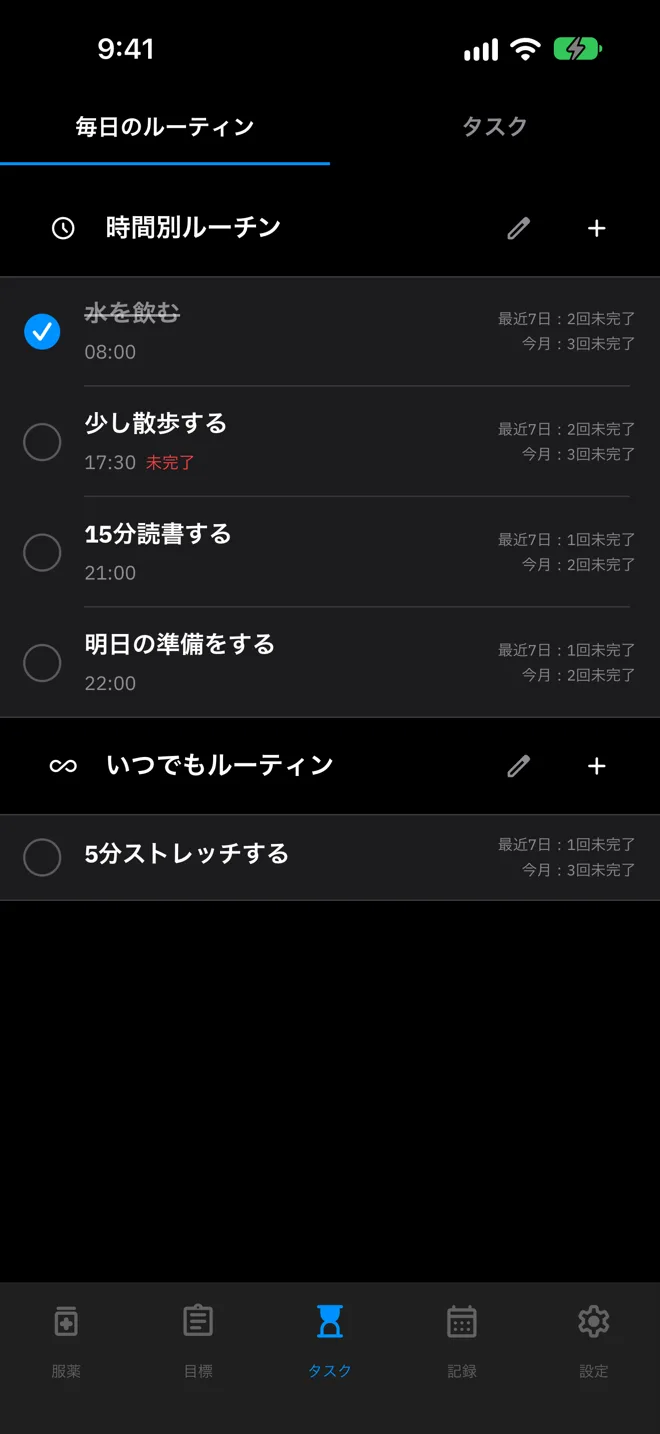
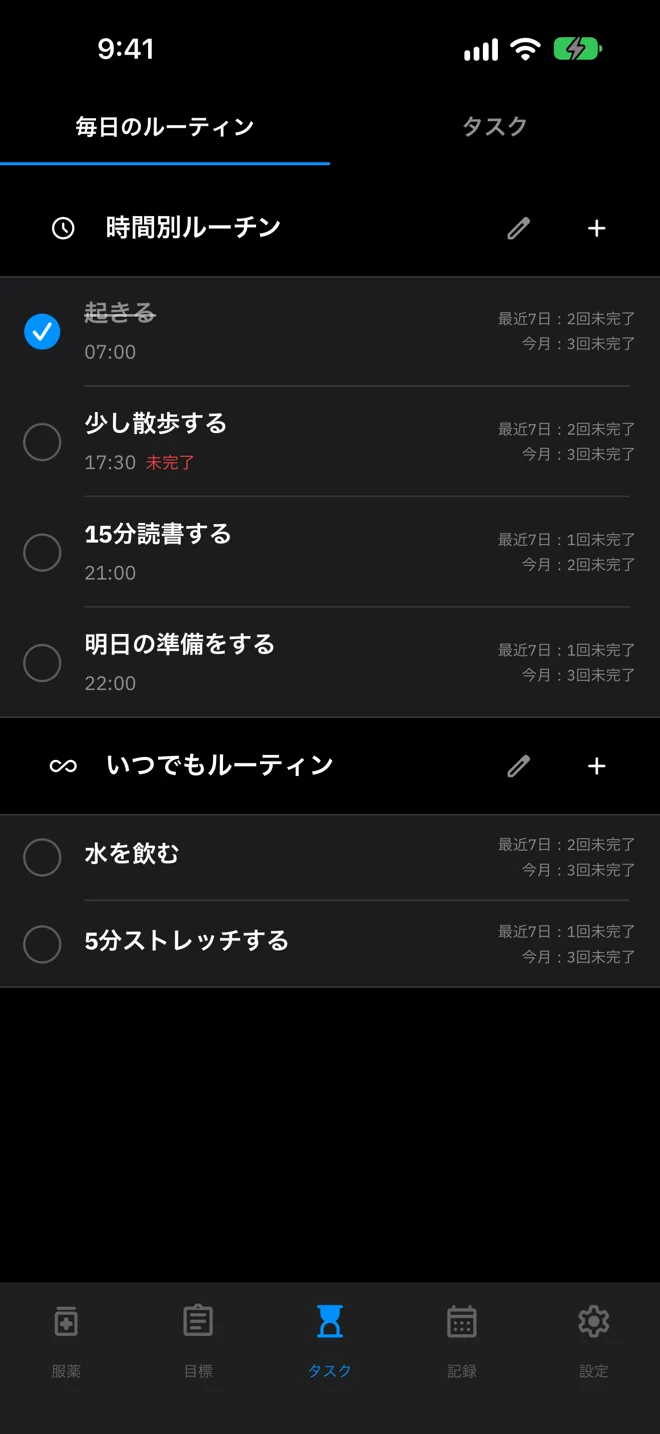
Refresh Peakly screenshots and tighten site copy
Retake the chart, goals, today's goals and routine screenshots with
realistic sample data, show the PDF report page next to the report
screen, drop the duplicate calendar row, remove the panel behind the
phone mockups, state that records stay on the device and the user's own
iCloud, and use support@ as the only contact address.

Changed region(s): [[0.0, 0.583, 1.0, 0.7057], [0.1212, 0.2148, 0.2727, 0.2455]]

diff --git a/src/i18n.ts b/src/i18n.ts
@@ -3,7 +3,7 @@ export type Lang = (typeof LANGS)[number];
 export type Page = 'home' | 'peakly' | 'privacy' | 'terms' | 'support';
 
 export const SITE = 'https://hyperfocuslab.app';
-export const EMAIL = 'hello@hyperfocuslab.app';
+export const EMAIL = 'support@hyperfocuslab.app';
 export const STORE = {
   appStore: 'https://apps.apple.com/app/id6757836001',
   googlePlay: 'https://play.google.com/store/apps/details?id=com.peakly.android',
@@ -52,6 +52,7 @@ export const ui = {
       peakly: {
         tagline: 'ADHD 복약 기록 앱',
         lead: '약을 먹은 시간만 기록하면, 지금 약효가 어느 단계인지 보여줍니다. 루틴과 할 일도 같은 앱에서 챙깁니다.',
+        privacy: '복약 기록과 건강 데이터는 외부 서버로 보내지 않습니다. 기기와 내 iCloud(Android는 Google Drive)에만 저장됩니다.',
         sections: [
           {
             tab: '복약',
@@ -59,22 +60,22 @@ export const ui = {
             rows: [
               { shot: 'chart', label: '예상 약효 곡선', title: '지금 약효가 어디쯤인지.', body: '콘서타와 메디키넷의 참고 곡선으로 시간대별 예상 약효를 그립니다. 오르는 중인지, 피크인지, 끝나가는지 바로 보이고, 피크 구간은 내 몸에 맞게 직접 옮길 수 있습니다. 곡선 아래에는 Apple Watch가 잰 심박수와 움직임이 같은 시간축으로 붙습니다.', alt: '콘서타 예상 약효 곡선과 그 아래 심박수, 움직임 그래프가 있는 Peakly 복약 화면' },
               { shot: 'lock', label: '다이나믹 아일랜드·잠금 화면', title: '남은 약효 시간이 늘 화면 위에.', body: 'iPhone은 다이나믹 아일랜드와 잠금 화면, Apple Watch 스마트 스택에, Android는 알림 영역에 남은 약효 시간이 계속 떠 있습니다. 약효가 오를 때, 최대 농도 구간에 들어설 때, 끝나갈 때는 알림으로 알려줍니다.', alt: '다이나믹 아일랜드와 잠금 화면에 콘서타 36mg 메인 피크와 남은 시간이 표시된 iPhone' },
-              { shot: 'report', label: 'PDF 리포트', title: '진료 때 보여줄 기록을 한 장에.', body: '기간을 골라 복약 기록, 수면, 심박, 걸음을 PDF로 정리합니다. 진료실에서 화면을 넘기지 않고 그대로 보여주면 됩니다.', alt: '기간과 포함할 내용을 고르는 PDF 리포트 생성 화면' },
+              { shot: 'report', pdf: true, label: 'PDF 리포트', title: '진료 때 보여줄 기록을 PDF로.', body: '기간을 고르면 "지난 N일, 이렇게 지냈어요" 리포트가 두 장짜리 PDF로 만들어집니다. 복용 기록, 이전 기간과 비교한 몸 상태 변화, 하루 중 약효 흐름, 기분 메모와 진료 때 물어볼 질문을 담습니다. 진료실에서 화면을 넘기지 않고 그대로 보여주면 됩니다.', alt: '기간을 고르는 PDF 리포트 생성 화면과, 복용 기록과 몸 상태 변화가 정리된 리포트 첫 장' },
             ],
           },
           {
             tab: '목표',
             intro: '큰 목표는 날짜로, 오늘 할 몫은 작게.',
             rows: [
-              { shot: 'goals', label: '전체 목표', title: '멀리 있는 목표를 D-Day로.', body: '시험, 프로젝트, 습관 같은 큰 목표에 날짜를 붙이면 D-Day와 진행률이 함께 보입니다. 목표마다 남은 기간이 한눈에 정리됩니다.', alt: 'D-Day와 목표별 진행률이 있는 전체 목표 화면' },
-              { shot: 'goals-today', label: '오늘의 목표', title: '큰 목표를 오늘 몫으로.', body: '목표를 오늘 할 작은 실천으로 쪼개고, 하나씩 체크하면 오늘 진행률이 올라갑니다.', alt: '오늘의 목표 진행률과 작은 실천 목록' },
+              { shot: 'goals', label: '전체 목표', title: '목표는 진행률로, 기다리는 날은 D-Day로.', body: '자격증, 다이어트, 포트폴리오처럼 큰 목표에 날짜를 붙이면 진행률과 남은 기간이 함께 보입니다. 여행, 시험일, 기념일처럼 날짜가 정해진 일은 D-Day로 띄워 둡니다.', alt: 'D-Day와 목표별 진행률이 있는 전체 목표 화면' },
+              { shot: 'goals-today', label: '오늘의 목표', title: '큰 목표를 오늘 몫으로.', body: '목표를 오늘 할 작은 일로 나누고, 체크한 만큼 오늘 진행 상황이 채워집니다.', alt: '오늘의 목표 진행률과 작은 실천 목록' },
             ],
           },
           {
             tab: '할 일',
             intro: '매일 하는 일과 마감이 있는 일을 나눠서.',
             rows: [
-              { shot: 'routines', label: '매일 루틴', title: '정한 시간에 할 일, 아무 때나 할 일.', body: '물 마시기처럼 시간이 정해진 일은 시간별 루틴으로, 스트레칭처럼 하루 중 언제든 하면 되는 일은 언제나 루틴으로 나눕니다. 최근 7일과 이번 달에 몇 번 놓쳤는지도 셉니다.', alt: '시간별 루틴과 언제나 루틴이 있는 매일 루틴 화면' },
+              { shot: 'routines', label: '매일 루틴', title: '정한 시간에 할 일, 아무 때나 할 일.', body: '기상이나 산책처럼 시간이 정해진 일은 시간별 루틴으로, 스트레칭처럼 하루 중 언제든 하면 되는 일은 언제나 루틴으로 나눕니다. 최근 7일과 이번 달에 몇 번 놓쳤는지도 셉니다.', alt: '시간별 루틴과 언제나 루틴이 있는 매일 루틴 화면' },
               { shot: 'todo', label: '해야 할 일', title: '마감이 가까운 일부터.', body: '마감이 있는 일은 남은 시간별로 나눠 보여줍니다. 오늘까지, 이번 주, 그 뒤로 정리되어 무엇부터 할지 고민할 필요가 없습니다.', alt: '남은 시간별로 나뉜 해야 할 일 목록' },
             ],
           },
@@ -82,16 +83,15 @@ export const ui = {
             tab: '기록',
             intro: '지나간 날과 그날의 기분을 남겨 둡니다.',
             rows: [
-              { shot: 'calendar', label: '캘린더', title: '지난 날을 한눈에.', body: '복약, 목표, 할 일이 날짜마다 색 점으로 표시됩니다. 날짜를 누르면 그날 먹은 약과 한 일이 모두 나오고, 위쪽 검색으로 지난 기록을 찾을 수 있습니다.', alt: '복약, 목표, 할 일이 점으로 표시된 캘린더' },
-              { shot: 'memo', label: '컨디션·오늘 메모', title: '그날의 기분을 한 번의 탭으로.', body: '다섯 가지 표정 중 하나를 고르고 짧은 메모를 남깁니다. 쌓인 컨디션과 메모는 진료 때 "그동안 어땠는지" 설명하는 근거가 됩니다.', alt: '선택한 컨디션 표정과 오늘 메모가 적힌 기록 화면' },
+              { shot: 'calendar', label: '캘린더', title: '지난 날을 한눈에.', body: '날짜마다 복약, 목표, 할 일 기록을 점으로 보여줍니다. 날짜를 누르면 그날 먹은 약과 끝낸 목표·할 일을 볼 수 있고, 지난 기록은 검색으로 찾을 수 있습니다. 그날의 기분과 메모를 남겨 두면 진료 때 그동안 어땠는지 설명하는 데 도움이 됩니다.', alt: '복약, 목표, 할 일이 점으로 표시된 캘린더' },
             ],
           },
           {
             tab: '설정',
             intro: '언어와 화면, 백업까지 내게 맞게.',
             rows: [
-              { shot: 'settings', label: '내 방식대로', title: '언어, 화면, 시간까지 내게 맞게.', body: '한국어, English, 日本語를 지원하고, 다크·라이트 모드와 색상 테마를 고를 수 있습니다. 목표 취침·기상 시간을 정해 두면 약효가 잠자리까지 이어질지 미리 알려줍니다.', alt: '언어, 디스플레이 모드, 색상 테마, 목표 취침·기상 시간이 있는 설정 화면' },
-              { shot: 'backup', label: '백업·복구', title: '폰을 바꿔도 기록은 그대로.', body: '내 iCloud에 자동으로 백업하고, 필요할 때 지금 바로 백업하거나 파일로 내보낼 수 있습니다. 복구할 때는 지금 기록과 다른 항목만 골라서 되살립니다.', alt: 'iCloud 백업, 지금 백업, 데이터 내보내기와 가져오기가 있는 백업·복구 화면' },
+              { shot: 'settings', label: '내 방식대로', title: '언어, 화면, 시간까지 내게 맞게.', body: '한국어, 영어, 일본어를 지원하고, 다크·라이트 모드와 색상 테마를 고를 수 있습니다. 목표 취침·기상 시간을 정해 두면 약효가 잠자리까지 이어질지 미리 알려줍니다.', alt: '언어, 디스플레이 모드, 색상 테마, 목표 취침·기상 시간이 있는 설정 화면' },
+              { shot: 'backup', label: '백업·복구', title: '폰을 바꿔도 기록은 그대로.', body: '복약 기록과 건강 데이터는 외부 서버로 보내지 않고, 기기와 내 iCloud에만 저장됩니다. 자동으로 백업하고, 필요할 때 지금 바로 백업하거나 파일로 내보낼 수 있습니다. 복구할 때는 지금 기록과 다른 항목만 골라서 되살립니다.', alt: 'iCloud 백업, 지금 백업, 데이터 내보내기와 가져오기가 있는 백업·복구 화면' },
             ],
           },
           {
@@ -106,7 +106,7 @@ export const ui = {
           label: '데이터',
           title: '기록은 내 기기에.',
           items: [
-            { title: '서버로 보내지 않습니다', body: '복약 기록과 건강 데이터는 기기 안에만 저장합니다. Hyperfocus Lab 서버로 보내지 않습니다.' },
+            { title: '외부 서버로 보내지 않습니다', body: '복약 기록과 건강 데이터는 기기와 내 iCloud에 저장하고, 외부 서버로 보내지 않습니다.' },
             { title: '내 iCloud에 백업', body: '본인 iCloud에 자동으로 백업하고, 같은 Apple 계정의 iPhone·iPad끼리 동기화합니다. Android는 Google Drive에 백업합니다. (Pro)' },
             { title: '약 이름 숨기기', body: '위젯, 잠금 화면, 다이나믹 아일랜드에 약 이름과 이미지가 보이지 않게 할 수 있습니다. (Pro)' },
           ],
@@ -152,6 +152,7 @@ export const ui = {
       peakly: {
         tagline: 'ADHD medication tracker',
         lead: 'Log when you take your medication, and Peakly shows which phase it is in right now. Your routines and to-dos live in the same app.',
+        privacy: 'Your dose records and health data never go to an outside server. They are stored only on your device and in your own iCloud (Google Drive on Android).',
         sections: [
           {
             tab: 'Medication',
@@ -159,22 +160,22 @@ export const ui = {
             rows: [
               { shot: 'chart', label: 'Estimated effect curve', title: 'Know where your medication is.', body: 'Reference curves for Concerta and Medikinet show your estimated effect through the day. See at a glance whether it is rising, peaking, or wearing off, and move the peak window to match how you feel. Heart rate and movement from Apple Watch sit right below on the same timeline.', alt: 'Peakly medication screen with the expected Concerta curve above heart rate and movement graphs' },
               { shot: 'lock', label: 'Dynamic Island and Lock Screen', title: 'Time left, always on screen.', body: 'The time your medication has left stays in the Dynamic Island, on the Lock Screen, and in the Apple Watch Smart Stack, and in the notification shade on Android. Notifications tell you when it starts rising, when the peak window begins, and when it is wearing off.', alt: 'iPhone Dynamic Island and Lock Screen showing Concerta 36mg at its main peak with the time left' },
-              { shot: 'report', label: 'PDF report', title: 'Your records on one page for your doctor.', body: 'Pick a period and turn your doses, sleep, heart rate, and steps into a PDF. Show it at your appointment instead of scrolling through your phone.', alt: 'PDF report screen for choosing a period and what to include' },
+              { shot: 'report', pdf: true, label: 'PDF report', title: 'Your records as a PDF for your doctor.', body: 'Pick a period and Peakly makes a two-page PDF, "How the last N days went." It covers your dose records, body changes compared with the previous period, how the effect ran through the day, your mood notes, and questions to ask at the visit. Show it as is instead of scrolling through your phone.', alt: 'PDF report screen for choosing a period, next to the first page of the report with dose records and body changes' },
             ],
           },
           {
             tab: 'Goals',
             intro: 'Big goals get a date. Today\'s share stays small.',
             rows: [
-              { shot: 'goals', label: 'All goals', title: 'Turn far-off goals into D-Days.', body: 'Give an exam, a project, or a habit a date, and see its D-Day and progress together. Every goal shows how much time is left.', alt: 'All Goals screen with D-Days and progress per goal' },
-              { shot: 'goals-today', label: 'Today\'s goals', title: 'Big goals, broken into today.', body: 'Split a goal into small actions for today. Each one you check moves today\'s progress forward.', alt: 'Today\'s Goals with progress and small actions' },
+              { shot: 'goals', label: 'All goals', title: 'Goals as progress, waiting days as D-Days.', body: 'Give a big goal like a certification, a diet, or a portfolio a date, and you see its progress and the time left together. Things with a fixed date, like a trip, an exam day, or an anniversary, sit on screen as D-Days.', alt: 'All Goals screen with D-Days and progress per goal' },
+              { shot: 'goals-today', label: 'Today\'s goals', title: 'Big goals, broken into today.', body: 'Split a goal into small things to do today. Each one you check fills in today\'s progress.', alt: 'Today\'s Goals with progress and small actions' },
             ],
           },
           {
             tab: 'Tasks',
             intro: 'Daily habits and deadlines, kept apart.',
             rows: [
-              { shot: 'routines', label: 'Daily routines', title: 'Things for a set time, and anytime.', body: 'Timed routines cover things like drinking water at 8:00; anytime routines cover things like stretching whenever you can. Peakly also counts how often you missed each one in the last 7 days and this month.', alt: 'Daily Routine screen with timed and anytime routines' },
+              { shot: 'routines', label: 'Daily routines', title: 'Things for a set time, and anytime.', body: 'Things with a set time, like waking up or a walk, go into timed routines. Things you can do whenever, like stretching, go into anytime routines. Peakly also counts how many times you missed each one in the last 7 days and this month.', alt: 'Daily Routine screen with timed and anytime routines' },
               { shot: 'todo', label: 'To-dos', title: 'Closest deadline first.', body: 'Tasks with deadlines are grouped by how much time is left: today, this week, and later. No need to decide what to start with.', alt: 'Task list grouped by time left' },
             ],
           },
@@ -182,16 +183,15 @@ export const ui = {
             tab: 'History',
             intro: 'Past days, and how each one felt.',
             rows: [
-              { shot: 'calendar', label: 'Calendar', title: 'Your past days at a glance.', body: 'Doses, goals, and tasks show up as colored dots on each date. Tap a day to see everything from that day, or search past records from the top.', alt: 'Calendar with dots for doses, goals, and tasks' },
-              { shot: 'memo', label: 'Mood and daily note', title: 'How today felt, in one tap.', body: 'Pick one of five faces and leave a short note. Over time, your moods and notes help you explain how things have been at your appointment.', alt: 'History screen with a selected mood face and a daily note' },
+              { shot: 'calendar', label: 'Calendar', title: 'Your past days at a glance.', body: 'Each date shows dots for your doses, goals, and tasks. Tap a day to see the medication you took and the goals and tasks you finished, or search to find older records. Your mood and notes for the day help you explain how things have been at your appointment.', alt: 'Calendar with dots for doses, goals, and tasks' },
             ],
           },
           {
             tab: 'Settings',
             intro: 'Language, look, and backups, your way.',
             rows: [
-              { shot: 'settings', label: 'Make it yours', title: 'Language, look, and your own schedule.', body: 'Peakly speaks 한국어, English, and 日本語, with dark and light modes and color themes. Set your target bedtime and wake time, and Peakly warns you if the effect may last into the night.', alt: 'Settings screen with language, display mode, color theme, and target bedtime and wake time' },
-              { shot: 'backup', label: 'Backup and restore', title: 'New phone, same records.', body: 'Back up automatically to your own iCloud, back up now, or export a file. When you restore, you choose only the records that differ from what you have.', alt: 'Backup screen with iCloud backup, back up now, and data export and import' },
+              { shot: 'settings', label: 'Make it yours', title: 'Language, look, and your own schedule.', body: 'Peakly is available in Korean, English, and Japanese, with dark and light modes and color themes. Set your target bedtime and wake time, and Peakly warns you if the effect may last into the night.', alt: 'Settings screen with language, display mode, color theme, and target bedtime and wake time' },
+              { shot: 'backup', label: 'Backup and restore', title: 'New phone, same records.', body: 'Your dose records and health data never go to an outside server. They are stored only on your device and in your own iCloud. Backups run automatically, and you can also back up now or export a file. When you restore, you choose only the records that differ from what you have.', alt: 'Backup screen with iCloud backup, back up now, and data export and import' },
             ],
           },
           {
@@ -206,7 +206,7 @@ export const ui = {
           label: 'Data',
           title: 'Your records stay on your device.',
           items: [
-            { title: 'Nothing sent to our servers', body: 'Medication records and health data are stored only on your device. They are never sent to Hyperfocus Lab servers.' },
+            { title: 'Nothing sent to outside servers', body: 'Medication records and health data are stored on your device and in your own iCloud, and are never sent to an outside server.' },
             { title: 'Backed up to your iCloud', body: 'Back up automatically to your own iCloud and sync between iPhone and iPad on the same Apple Account. Android backs up to Google Drive. (Pro)' },
             { title: 'Hide medication names', body: 'Keep medication names and images out of widgets, the Lock Screen, and the Dynamic Island. (Pro)' },
           ],
@@ -252,6 +252,7 @@ export const ui = {
       peakly: {
         tagline: 'ADHDの服薬記録アプリ',
         lead: '薬を飲んだ時刻を記録するだけで、いま薬の作用がどの段階かを表示します。ルーティンやタスクも同じアプリで管理できます。',
+        privacy: '服薬記録と健康データは外部のサーバーには送りません。端末と自分のiCloud（AndroidはGoogleドライブ）にだけ保存されます。',
         sections: [
           {
             tab: '服薬',
@@ -259,22 +260,22 @@ export const ui = {
             rows: [
               { shot: 'chart', label: '予測グラフ', title: 'いま、作用はどのあたりか。', body: 'コンサータとメディキネットの参考曲線で、時間ごとの作用の予測を描きます。上がっている途中か、ピークか、切れかけているかがひと目でわかり、ピークの時間帯は自分の感覚に合わせて動かせます。曲線の下には、Apple Watchが計測した心拍数と動きが同じ時間軸で並びます。', alt: 'コンサータの予想曲線と心拍数・動きのグラフが並ぶPeaklyの服薬画面' },
               { shot: 'lock', label: 'Dynamic Island・ロック画面', title: '作用の残り時間を、いつも画面に。', body: 'iPhoneではDynamic Island、ロック画面、Apple Watchのスマートスタックに、Androidでは通知エリアに、作用の残り時間が表示され続けます。作用が上がり始めたとき、ピークの時間帯に入ったとき、切れかけたときは通知でお知らせします。', alt: 'Dynamic Islandとロック画面に、コンサータ36mgのメインピークと残り時間を表示したiPhone' },
-              { shot: 'report', label: 'PDFレポート', title: '診察で見せる記録を一枚に。', body: '期間を選んで、服薬記録・睡眠・心拍・歩数をPDFにまとめます。診察室でスマホをスクロールせず、そのまま見せられます。', alt: '期間と含める内容を選ぶPDFレポート作成画面' },
+              { shot: 'report', pdf: true, label: 'PDFレポート', title: '診察で見せる記録を、PDFで。', body: '期間を選ぶと、「直近N日間、こんなふうに過ごしました」というレポートが2ページのPDFになります。服薬記録、前の期間と比べた体の変化、一日の作用の流れ、気分のメモ、診察で聞きたいことを載せます。診察室でスマホをスクロールせず、そのまま見せられます。', alt: '期間を選ぶPDFレポート作成画面と、服薬記録と体の変化がまとまったレポートの1ページ目' },
             ],
           },
           {
             tab: '目標',
             intro: '大きな目標は日付で、今日の分は小さく。',
             rows: [
-              { shot: 'goals', label: '全体の目標', title: '遠い目標を、D-Dayに。', body: '試験やプロジェクト、習慣などの大きな目標に日付をつけると、D-Dayと進捗率が一緒に表示されます。目標ごとの残り期間がひと目でわかります。', alt: 'D-Dayと目標ごとの進捗率が並ぶ全体の目標画面' },
-              { shot: 'goals-today', label: '今日の目標', title: '大きな目標を、今日の一歩に。', body: '目標を今日の小さな実践に分け、ひとつずつチェックすると今日の進捗が上がります。', alt: '今日の目標の進捗率と小さな実践の一覧' },
+              { shot: 'goals', label: '全体の目標', title: '目標は進捗で、待つ日はD-Dayで。', body: '資格、ダイエット、ポートフォリオのような大きな目標に日付をつけると、進捗率と残り期間が一緒に見えます。旅行、試験日、記念日のように日付が決まっていることは、D-Dayとして表示しておけます。', alt: 'D-Dayと目標ごとの進捗率が並ぶ全体の目標画面' },
+              { shot: 'goals-today', label: '今日の目標', title: '大きな目標を、今日の一歩に。', body: '目標を今日やる小さなことに分けると、チェックした分だけ今日の進み具合が埋まっていきます。', alt: '今日の目標の進捗率と小さな実践の一覧' },
             ],
           },
           {
             tab: 'タスク',
             intro: '毎日のことと締め切りのあることを分けて。',
             rows: [
-              { shot: 'routines', label: '毎日のルーティン', title: '決まった時間のこと、いつでもいいこと。', body: '水を飲むなど時間が決まったことは時間別ルーティンに、ストレッチなど一日のうちいつでもいいことはいつでもルーティンに分けます。直近7日と今月に何回できなかったかも数えます。', alt: '時間別ルーティンといつでもルーティンが並ぶ毎日のルーティン画面' },
+              { shot: 'routines', label: '毎日のルーティン', title: '決まった時間のこと、いつでもいいこと。', body: '起床や散歩のように時間が決まっていることは時間別ルーティンに、ストレッチのように一日のうちいつでもいいことはいつでもルーティンに分けます。直近7日と今月に何回できなかったかも数えます。', alt: '時間別ルーティンといつでもルーティンが並ぶ毎日のルーティン画面' },
               { shot: 'todo', label: 'やること', title: '締め切りが近いものから。', body: '締め切りのあることは、今日まで・今週・それ以降と残り時間ごとに分けて表示します。何から始めるか迷いません。', alt: '残り時間ごとに分かれたタスク一覧' },
             ],
           },
@@ -282,16 +283,15 @@ export const ui = {
             tab: '記録',
             intro: '過ぎた日と、その日の気分を残します。',
             rows: [
-              { shot: 'calendar', label: 'カレンダー', title: '過ぎた日々を、ひと目で。', body: '服薬・目標・タスクが日付ごとに色の点で表示されます。日付をタップするとその日の記録がすべて表示され、上の検索で過去の記録を探せます。', alt: '服薬・目標・タスクが点で示されたカレンダー' },
-              { shot: 'memo', label: '体調・今日のメモ', title: 'その日の気分を、ワンタップで。', body: '5つの表情からひとつを選び、短いメモを残します。たまった体調とメモは、診察で「この間どうだったか」を伝える手がかりになります。', alt: '選んだ体調の表情と今日のメモがある記録画面' },
+              { shot: 'calendar', label: 'カレンダー', title: '過ぎた日々を、ひと目で。', body: '日付ごとに服薬・目標・タスクの記録を点で表示します。日付をタップすると、その日に飲んだ薬と終えた目標・タスクを確認でき、過去の記録は検索で探せます。その日の気分とメモを残しておけば、診察で最近の様子を伝えやすくなります。', alt: '服薬・目標・タスクが点で示されたカレンダー' },
             ],
           },
           {
             tab: '設定',
             intro: '言語も画面もバックアップも、自分に合わせて。',
             rows: [
-              { shot: 'settings', label: '自分に合わせて', title: '言語も画面も時間も、自分仕様に。', body: '한국어・English・日本語に対応し、ダーク・ライトモードと色テーマを選べます。目標の就寝・起床時間を決めておくと、作用が寝る時間まで続きそうなときに事前にお知らせします。', alt: '言語、ディスプレイモード、色テーマ、目標の就寝・起床時間がある設定画面' },
-              { shot: 'backup', label: 'バックアップ・復元', title: '機種を変えても、記録はそのまま。', body: '自分のiCloudに自動でバックアップし、必要なときは今すぐバックアップしたりファイルに書き出したりできます。復元するときは、今の記録と違う項目だけを選んで戻せます。', alt: 'iCloudバックアップ、今すぐバックアップ、データの書き出しと読み込みがあるバックアップ画面' },
+              { shot: 'settings', label: '自分に合わせて', title: '言語も画面も時間も、自分仕様に。', body: '韓国語、英語、日本語で使えます。ダーク・ライトモードと色テーマも選べます。目標の就寝・起床時間を決めておくと、作用が寝る時間まで続きそうなときに事前にお知らせします。', alt: '言語、ディスプレイモード、色テーマ、目標の就寝・起床時間がある設定画面' },
+              { shot: 'backup', label: 'バックアップ・復元', title: '機種を変えても、記録はそのまま。', body: '服薬記録と健康データは外部のサーバーには送らず、端末と自分のiCloudにだけ保存されます。自動でバックアップし、必要なときは今すぐバックアップしたりファイルに書き出したりできます。復元するときは、今の記録と違う項目だけを選んで戻せます。', alt: 'iCloudバックアップ、今すぐバックアップ、データの書き出しと読み込みがあるバックアップ画面' },
             ],
           },
           {
@@ -306,7 +306,7 @@ export const ui = {
           label: 'データ',
           title: '記録は自分の端末に。',
           items: [
-            { title: 'サーバーに送りません', body: '服薬記録と健康データは端末の中だけに保存します。Hyperfocus Labのサーバーには送りません。' },
+            { title: '外部のサーバーに送りません', body: '服薬記録と健康データは端末と自分のiCloudに保存し、外部のサーバーには送りません。' },
             { title: '自分のiCloudにバックアップ', body: '自分のiCloudに自動でバックアップし、同じApple アカウントのiPhone・iPad間で同期します。AndroidはGoogleドライブにバックアップします。(Pro)' },
             { title: '薬の名前を隠す', body: 'ウィジェット、ロック画面、Dynamic Islandに薬の名前と画像を表示しないようにできます。(Pro)' },
           ],

diff --git a/src/styles/global.css b/src/styles/global.css
@@ -960,12 +960,34 @@ a:hover {
   position: relative;
   display: grid;
   place-items: center;
-  padding: clamp(24px, 4vw, 48px);
-  border-radius: 24px;
-  background: radial-gradient(ellipse 80% 70% at 50% 40%, rgba(255, 255, 255, 0.06), transparent 70%),
-    var(--paper-2);
+}
+
+/* Report row: the A4 page sits beside the phone and tucks under it a little. */
+.feature-visual.with-page {
+  grid-template-columns: minmax(0, 4fr) minmax(0, 5fr);
+  align-items: center;
+}
+
+.feature-visual.with-page .device {
+  position: relative;
+  z-index: 1;
+  width: 100%;
+  margin-right: -14%;
+}
+
+.report-page {
+  display: block;
+  height: auto;
+  width: 100%;
+  aspect-ratio: 1014 / 1434;
+  background: #fff;
   border: 1px solid var(--rule-soft);
-  box-shadow: inset 0 1px 0 rgba(255, 255, 255, 0.06);
+}
+
+.p-privacy {
+  max-width: 36em;
+  color: var(--ink-2);
+  font-size: 0.9375rem;
 }
 
 /* Two screens of one feature: the second sits lower and overlaps a little. */
@@ -1104,6 +1126,21 @@ a:hover {
 
   .feature-row.flip .feature-copy {
     order: 0;
+  }
+
+  .feature-visual.with-page {
+    grid-template-columns: minmax(0, 1fr);
+    gap: 24px;
+  }
+
+  .feature-visual.with-page .device {
+    width: min(100%, 320px);
+    margin-right: 0;
+  }
+
+  .report-page {
+    margin-left: 0;
+    width: min(100%, 420px);
   }
 }
 
